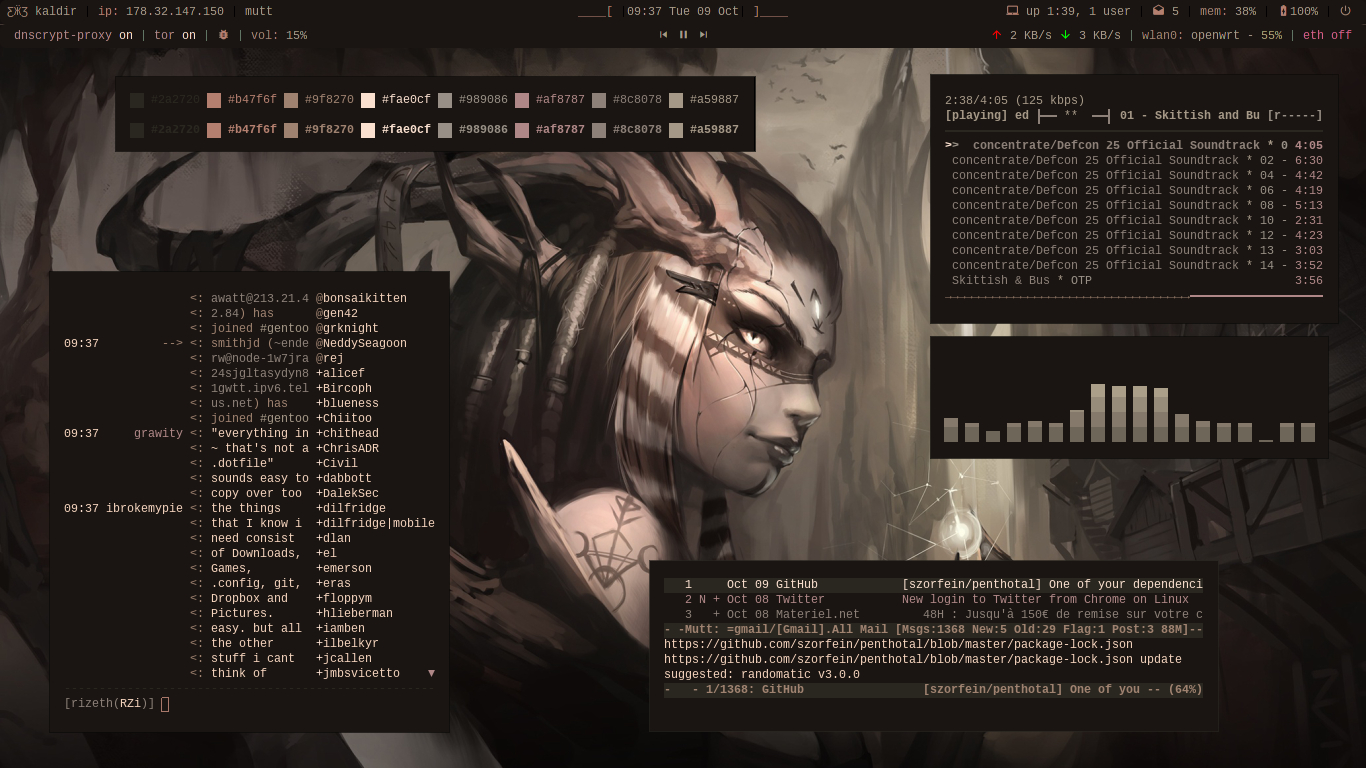
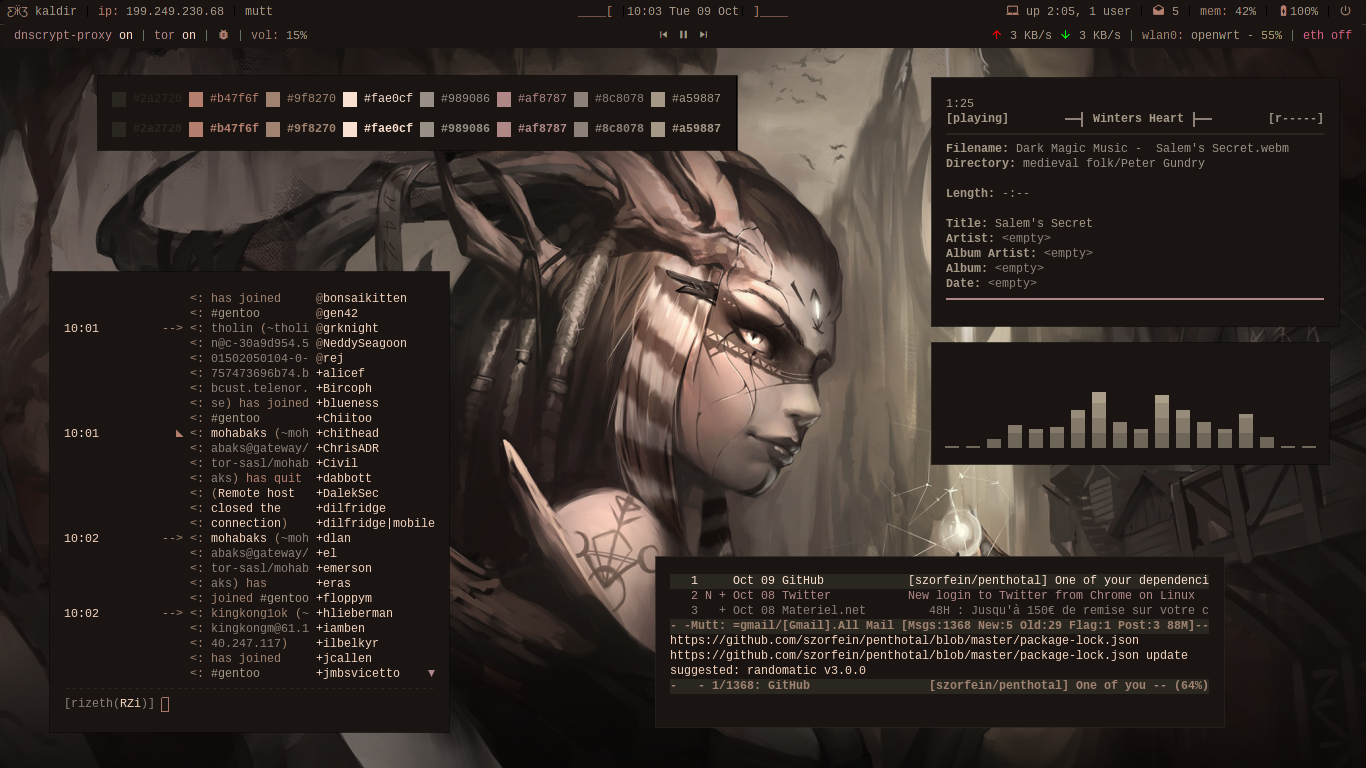
upd fantasy with i3

diff --git a/README.md b/README.md
@@ -79,7 +79,7 @@ I use the plugin [oh-my-zsh](https://github.com/robbyrussell/oh-my-zsh) with the
 
 ## Screens
 
-**Last**:`theme-fantasy`, [wm]:*subtle* [term]: *kitty*. [vim-color] [fantasy.vim](https://github.com/szorfein/fantasy.vim).
+**Last**:`theme-fantasy`, [wm]:*subtle* or *i3* [term]: *kitty*. [vim-color] [fantasy.vim](https://github.com/szorfein/fantasy.vim).
 
 ![Last screenshot](https://raw.githubusercontent.com/szorfein/dotfiles/master/screenshots/fantasy.jpg "fantasy")
 
